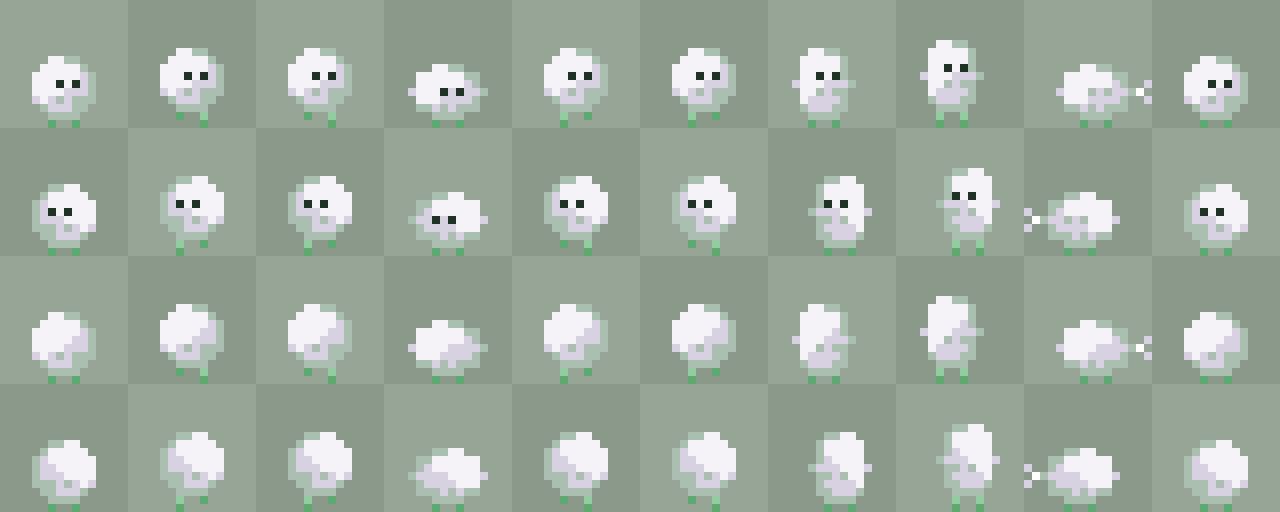
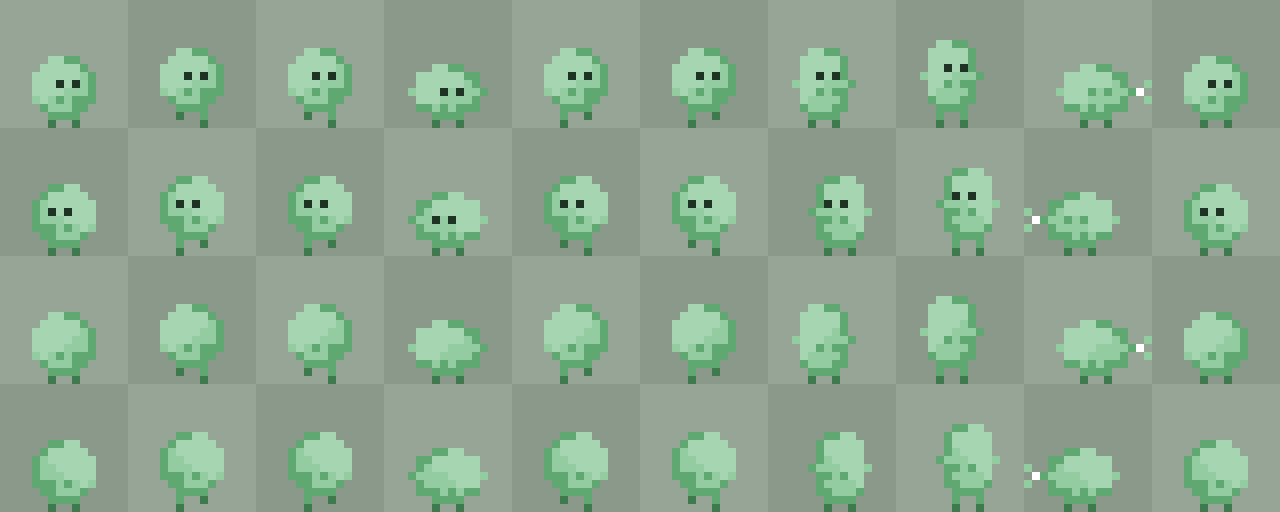
Morning suggestions: two log lines, Spool Seam/Mangled temp art in sage, PLAN Now tidied
Claude-Session: https://claude.ai/code/session_01RkaCMNmzr6NeLJeL4bMKyk

diff --git a/concept-tools/temp_art/spool_sage.py b/concept-tools/temp_art/spool_sage.py
@@ -14,6 +14,10 @@ colour, the icon palette); this script recolours the files: Spool's `Art/Tempora
 preview_8x PNGs and GIFs; the GIFs, opaque and under 20 colours, are re-quantised exactly). The version archives (`variants/`, `minions_2026-11-04/`) and the proposal folder keep their
 colours as a record.
 
+2026-11-06: the Seam's felt and the Mangled's cotton, drawn white with a lilac-grey mid and a grey-green shade, read as
+Pearl, which docs/STYLE.md keeps for Pure Aura (docs/reports/BATCH_CHECKS_2026-11-06c.md section 5), so `SHEET_MAP`
+moves those two bodies to the sage as well, per sheet, since the same whites are the other Crafted's gloves.
+
     python3 concept-tools/temp_art/spool_sage.py          -> recolours the files in place, prints what changed
     python3 concept-tools/temp_art/spool_sage.py --check  -> exits 1 if any old colour is left in those files
 
@@ -54,6 +58,19 @@ MAP = {
     'B5ABC6': 'ABBFB1',
 }
 
+# Per sheet, after MAP: the Seam (Button) and the Mangled (Burst) bodies, light / mid / shade (felt F6F3F8 / D8D1E2 /
+# ABBFB1). The Seam is the lighter of the two and its legs step down a tone to stay apart from its rim; the Mangled sits
+# a tone darker, which keeps it apart from the Seam and lifts its yellow eye. A sheet's table applies only while its
+# felt white (the first key) is in the file, because the Seam's legs would darken again on a second pass. In the
+# crafted GIFs the four sheets stand side by side (apply_picks.refresh: stitched, dart, seam, mangled), so a table
+# there covers its own strip.
+SHEET_MAP = {
+    'Spoolseam': {'F6F3F8': 'A6D6B1', 'D8D1E2': '93CCA1', 'ABBFB1': '60A871', '93CCA1': '60A871', '60A871': '3F7A4F'},
+    'Spoolmangled': {'F6F3F8': '93CCA1', 'D8D1E2': '6FAE7E', 'ABBFB1': '4F8C5E'},
+}
+GIF_STRIP = {'Spoolseam': 2, 'Spoolmangled': 3}
+CRAFTED_GIFS = ('Spool_crafted_move.gif', 'Spool_crafted_attack.gif')
+
 
 def hx(c):
     return '%02X%02X%02X' % tuple(c[:3])
@@ -71,8 +88,21 @@ def hsv(s):
 MAP_RGB = {rgb(k): rgb(v) for k, v in MAP.items()}
 
 
-def map_px(r, g, b):
-    return MAP_RGB.get((r, g, b), (r, g, b))
+def sheet_of(path):
+    return os.path.basename(path).split('-')[0]
+
+
+def table_for(name, present):
+    """The lookup for a file (or a GIF strip) of sheet `name`: MAP, then the sheet's own table while its marker colour
+    is `present`, composed into one pass."""
+    if name not in SHEET_MAP:
+        return MAP_RGB
+    own = {rgb(k): rgb(v) for k, v in SHEET_MAP[name].items()}
+    if not present(rgb(next(iter(SHEET_MAP[name])))):
+        return MAP_RGB
+    t = {k: own.get(v, v) for k, v in MAP_RGB.items()}
+    t.update(own)
+    return t
 
 
 # ------------------------------------------------------------------ PNG / GIF
@@ -82,15 +112,17 @@ def recolour_image(path, check):
     if getattr(im, 'is_animated', False) or im.format == 'GIF':
         return recolour_gif(path, check)
     rgba = im.convert('RGBA')
+    cols = {c[:3] for _, c in rgba.getcolors(rgba.width * rgba.height) if c[3]}
+    table = table_for(sheet_of(path), lambda c: c in cols)
     px = rgba.load()
     n = 0
     for y in range(rgba.height):
         for x in range(rgba.width):
             r, g, b, a = px[x, y]
-            if a and (r, g, b) in MAP_RGB:
+            if a and (r, g, b) in table:
                 n += 1
                 if not check:
-                    px[x, y] = map_px(r, g, b) + (a,)
+                    px[x, y] = table[(r, g, b)] + (a,)
     if n and not check:
         rgba.save(path)
     return n
@@ -102,15 +134,22 @@ def recolour_gif(path, check):
     for i in range(getattr(im, 'n_frames', 1)):
         im.seek(i)
         durations.append(im.info.get('duration', 100))
-        f = im.convert('RGBA')
+        frames.append(im.convert('RGBA'))
+    strip = {}
+    if os.path.basename(path) in CRAFTED_GIFS:
+        sw = im.width // 4
+        for name, k in GIF_STRIP.items():
+            strip[k] = table_for(name, lambda c: any(f.getpixel((x, y))[:3] == c for f in frames
+                                                     for y in range(f.height) for x in range(k * sw, (k + 1) * sw)))
+    for f in frames:
         px = f.load()
         for y in range(f.height):
             for x in range(f.width):
+                table = strip.get(x // sw, MAP_RGB) if strip else MAP_RGB
                 r, g, b, a = px[x, y]
-                if a and (r, g, b) in MAP_RGB:
+                if a and (r, g, b) in table:
                     n += 1
-                    px[x, y] = map_px(r, g, b) + (a,)
-        frames.append(f)
+                    px[x, y] = table[(r, g, b)] + (a,)
     if n and not check:
         loop = im.info.get('loop', 0)
         conv = [f.convert('RGB').convert('P', palette=Image.ADAPTIVE, colors=255) for f in frames]
@@ -120,7 +159,9 @@ def recolour_gif(path, check):
 
 # ------------------------------------------------------------------ .aseprite (RGBA), patched chunk by chunk
 
-def recolour_ase(path, check):
+def recolour_ase(path, check, table=None):
+    if table is None:
+        table = table_for(sheet_of(path), lambda c: recolour_ase(path, True, {c: c}) > 0)
     d = bytearray(open(path, 'rb').read())
     nframes, depth = struct.unpack('<H', d[6:8])[0], struct.unpack('<H', d[12:14])[0]
     assert depth == 32, path + ': not RGBA'
@@ -139,9 +180,9 @@ def recolour_ase(path, check):
                     raw = bytearray(c[20:] if typ == 0 else zlib.decompress(c[20:]))
                     for i in range(0, len(raw), 4):
                         key = (raw[i], raw[i + 1], raw[i + 2])
-                        if raw[i + 3] and key in MAP_RGB:
+                        if raw[i + 3] and key in table:
                             n += 1
-                            raw[i:i + 3] = bytes(MAP_RGB[key])
+                            raw[i:i + 3] = bytes(table[key])
                     c = c[:20] + (bytes(raw) if typ == 0 else zlib.compress(bytes(raw), 9))
             elif ct == 0x2019:
                 c = bytearray(c)
@@ -150,9 +191,9 @@ def recolour_ase(path, check):
                 for _k in range(a, b + 1):
                     fl = struct.unpack('<H', c[q:q + 2])[0]
                     key = tuple(c[q + 2:q + 5])
-                    if key in MAP_RGB:
+                    if key in table:
                         n += 1
-                        c[q + 2:q + 5] = bytes(MAP_RGB[key])
+                        c[q + 2:q + 5] = bytes(table[key])
                     q += 6
                     if fl & 1:
                         q += 2 + struct.unpack('<H', c[q:q + 2])[0]
@@ -189,6 +230,11 @@ def main():
     print('| Old | New | Old h s v | New h s v |')
     for k, v in MAP.items():
         print('| `%s` | `%s` | %d %d %d | %d %d %d |' % (k, v, *hsv(k), *hsv(v)))
+    for name, table in SHEET_MAP.items():
+        print()
+        print('%s (after MAP):' % name)
+        for k, v in table.items():
+            print('| `%s` | `%s` | %d %d %d | %d %d %d |' % (k, v, *hsv(k), *hsv(v)))
 
 
 if __name__ == '__main__':

diff --git a/TDS_Mod/ModSource/RogueWavesMode/Code/06_Campaign.cs b/TDS_Mod/ModSource/RogueWavesMode/Code/06_Campaign.cs
@@ -234,7 +234,7 @@ public static class RWCampaign
         Save();
         RWRun.Save();
         Rested = gift;
-        RWLog.Info("rested at " + cove.Name + " (row " + cove.Row + "): " + (gift == RetryBack ? "a retry back, " + Retries + " left" : "every player's lowest Direction up a rank") + (Choice >= 0 ? "; on to column " + Choice : "; the host picks the leg after it"));
+        RWLog.Info("rested at " + cove.Name + " (row " + cove.Row + "): " + (gift == RetryBack ? "a retry back, " + Retries + " left" : "every player's lowest Direction goes up a rank") + (Choice >= 0 ? "; on to column " + Choice : "; the host picks the leg after it"));
         RWRejoin.Say(gift == RetryBack ? "The Cove: the party rests and gets a retry back (" + Retries + " left)." : "The Cove: the party rests. With every retry in hand, each player's lowest Direction goes up a rank.");
         return true;
     }

diff --git a/TDS_Mod/ModSource/RogueWavesMode/Code/17_Cardinals.cs b/TDS_Mod/ModSource/RogueWavesMode/Code/17_Cardinals.cs
@@ -65,7 +65,8 @@ public static class RWCardinals
     public static readonly string[] NotSold =
     {
         "Artifact_Moon", "Artifact_Mooncore", "Artifact_Loop", "Artifact_Loopedmirror", "Artifact_Vintage", "Artifact_Samedayshipping", "Artifact_Pig", "Artifact_Moneybag",
-        "Artifact_Sandbox", "Artifact_Sand", "Artifact_Blurryphoto", "Artifact_Checklist", "Artifact_Computer", "Artifact_Bottomrock", "Artifact_Rock",
+        "Artifact_Sandbox", "Artifact_Sand", "Artifact_Blurryphoto", "Artifact_Checklist", "Artifact_Computer", "Artifact_Bottomrock",
+        "Artifact_Rock",   // Bottom Rock's real id (pitfall #132): scope 12:5's fourteen names, not a fifteenth
     };
 
     // The stock Cardinals that act on one player's things are Trinkets (docs/reports/STOCK_TRINKETS_2026-11-05.md, Dimitri:

diff --git a/TDS_Mod/ModSource/Spool/Code/07_Building.cs b/TDS_Mod/ModSource/Spool/Code/07_Building.cs
@@ -163,7 +163,7 @@ public class SpoolStashBrain : SpoolBuilding
         {
             Refused = true;
             SpoolServer.StashRefused++;
-            SpoolLog.Warn("player " + Owner + " placed a second Yarn Stash; taken back, one a player");
+            SpoolLog.Warn("player " + Owner + " placed a second Yarn Stash; taken back, one per player");
             Helper_Entitytools.Despawn(Master.Beingserver, false, "Limit");
             return;
         }

diff --git a/docs/PLAN.md b/docs/PLAN.md
@@ -227,21 +227,19 @@ README, versioned zips, and `docs/10` hand-off. Gate: release.
 
 ### Now
 
-- **State (2026-11-05, base `7de9305`):** Phases 1-3 done; Phase 4's foes and Phase 5's mode built and run in game.
+- **State (2026-11-06, base `7997a4d`):** Phases 1-3 done; Phase 4's foes and Phase 5's mode built and run in game.
   Parts: Argo 2.0.1, Yossele 0.2.0-dev, Spool 0.1.0-dev, Uloe 0.1.0-dev (temporary art, `docs/TEMP_ART.md`; Argo keeps his
-  shipped look), `RogueWavesMode` 0.1.0-dev (main-menu button to end screen), the foes part; kit 1.14. Last run on the PC:
-  testing round 3 (kit 1.9, `docs/reports/TESTING_ROUND_3_2026-11-05.md`) and `Light_round1` (`fb208b8`, kit 1.13,
-  `docs/reports/LIGHTING_2026-11-05.md` §6). Built since, compiled here, not run on the PC: the unbuilt candidates
-  (`BUILD_UNBUILT_2026-11-05.md`), the max review's fixes, the decided code fixes, the balance sweep, Spring Tide's test,
-  the meteor's crystal and Yossele's final sheets. Every scope default is his except the sweep's tuned numbers in `04`,
-  `08`, `10`, `12` (tildes until after PC round 4); his project-files scope copy and the Scope Editor equal `7de9305`.
-  Dated history: "Log" (newest last); reports: `docs/reports/README.md`.
-- **Next, in order:** PC round 4 (his OK 16:04Z; lists: `BUILD_UNBUILT_2026-11-05.md` §5, `CODE_REVIEW_MAX_2026-11-05.md`
-  §6, `BALANCE_SWEEP_2026-11-05.md` §8, `DECIDED_CODE_FIXES_2026-11-05.md` §4; Spring Tide's three lines pass and its two
-  `INFO` lines show a Multi near 0.01, `RogueWavesMode/IMPLEMENTATION_NOTES.md` first entry; the meteor on a map and
-  Yossele walking left; it also syncs the PC's scope copy), then scope `07`'s sprite NEEDS line cleared in a docs PR;
-  the per-weather lighting look's PC round with foes on screen (`WEATHER_LOOK_2026-11-05.md` §4; built, entry below);
-  then Spool's 22 upgrades and UNTHREAD (scope `08`, B19).
+  shipped look), `RogueWavesMode` 0.1.0-dev (main-menu button to end screen, sea chart, MVP board), the foes part; kit
+  1.14. Last runs on the PC: PC round 4 (`PC_ROUND4_2026-11-05.md`, weather looks included), the menu wobble round
+  (`BUTTON_WOBBLE_2026-11-06.md`) and chart round 1 (`CHART_ROUND1_2026-11-06.md`); a full test round on `6830ba2` is
+  running and reports in its own PR. Built since, compiled here, not run on the PC: the MVP board, the whole-pixel
+  follow-up and the entries below that say so. The sweep's tuned numbers in scope `04`, `08`, `10`, `12` keep their
+  tildes until he takes them; his project-files scope copy waits for his "sync". Dated history: "Log" (newest last);
+  reports: `docs/reports/README.md`.
+- **Next, in order:** the full test round's report and the PC checks it leaves (`BUG_FIXES_2026-11-06.md` §5,
+  `CHART_BUILD_2026-11-06.md` §4, `STOCK_TRINKETS_2026-11-05.md` §6 and §8, the MVP board's two-player checks); the
+  pitfall report's top four fixes (`PITFALL_FIXES_2026-11-06.md` §1, its own PR); then Spool's 22 upgrades and UNTHREAD
+  (scope `08`, B19), with Spool's brain guard.
 - **Still open for his eye or word:** the code review's bugs left for his word, a PC fact or a sighting
   (`CODE_REVIEW_RECHECK_2026-11-05.md`, `CODE_REVIEW_MAX_2026-11-05.md` §5.1); by hand: the F key on a real Boutman death
   (P1-1), the icons, Spool's sage green beside a Hardened foe and on grass, the picked temporary art and minions, the
@@ -271,9 +269,6 @@ README, versioned zips, and `docs/10` hand-off. Gate: release.
 - **2026-11-05: four project skills drafted** (Dimitri: "Draft the 4 skills"): `docs/skills/` holds ship-a-pr,
   pc-round, scope-audit and scope-sync, each a whole SKILL.md for his claude.ai settings, plus how to install them.
   Docs only, no compile; nothing ran on the PC. No kit change, no pitfall.
-- **2026-11-05: base game Cardinals split** (Dimitri: "separate them"): 13 of the 29 sold are Trinkets, held once per buyer
-  (`docs/reports/STOCK_TRINKETS_2026-11-05.md`; §5 three questions, §6 the PC list); scope `12` lists them as defaults.
-  Compiled here, not run on the PC. No kit change, no pitfall.
 - **2026-11-05: feature spotlight page** (Dimitri: "Design a spotlight of all of the new features"): `docs/spotlight/`
   (artifact https://claude.ai/artifact/MCPDgVngHmnZcVHeZwxNSr), every feature chipped played, built-not-run or not built,
   with the PR #130 Trinket split. Docs only, no compile; nothing ran on the PC. No kit change, no pitfall.
@@ -346,6 +341,9 @@ README, versioned zips, and `docs/10` hand-off. Gate: release.
 - **2026-11-06: morning run** (Dimitri's daily routine): batch checks on Haiku 5.5, $1.32 ($3.14 this month), 35 of 36
   answers whole (`docs/reports/BATCH_CHECKS_2026-11-06c.md`, leads only, none fixed); no PC round (it needs his reply in
   the thread to start). Docs only; nothing ran on the PC. No kit change, no pitfall.
+- **2026-11-06: the morning's suggestions** (Dimitri: "implement suggestions but skip the PC round"): two log lines,
+  Spool's Seam and Mangled temporary sheets in sage, "Now" tidied, the batch README; two batch leads were no bugs. Compiled
+  here, not run on the PC. No kit change, no pitfall.
 
 ### Log (newest last; was "Now" until 2026-10-11)
 
@@ -1440,6 +1438,18 @@ README, versioned zips, and `docs/10` hand-off. Gate: release.
   4 text, 51 scope rows DIFFERENT or MISSING, 9 design rows, 7 docs, 68 art; leads only, none fixed here. The PC was
   reachable, but a Remote Control session can only be started from a message Dimitri writes in the thread, so no PC
   round ran; suggestions instead. Docs only. No kit change, no pitfall. Next free: kit 1.15, pitfall #175.
+- **2026-11-06: the morning's suggestions** (Dimitri 13:00Z: "If not done already, implement suggestions but skip the PC
+  round as it is already being run"). The pitfall-fix thread holds the elite stand-in order, the Wreck's Pearl Oyster,
+  the brain guards, the first-frame effects and Supernova's fly-back, so they are left out here. Text: the Cove's log
+  line ("goes up a rank", `06_Campaign.cs`) and Spool's second-Stash warning ("one per player", `07_Building.cs`); the
+  two Direction lines the batch called awkward (`16_Directions.cs:32`, `:68`) are his scope `11` words, left. Art:
+  Spool's Seam and Mangled temporary sheets from white and lilac (read as Pearl) to sage, by a per-sheet table in
+  `concept-tools/temp_art/spool_sage.py`; PNG, `.aseprite` and previews, shapes unchanged (`docs/TEMP_ART.md`). Not
+  bugs: the shop's `Artifact_Rock` is Bottom Rock's id (pitfall #132, now commented in `NotSold`); Uloe's six Light is
+  `4 + 2 per upgrade`, any one upgrade. Docs: "Now"'s State and Next brought to 2026-11-06, the superseded 13-of-29
+  entry dropped (the Log keeps it), the batch README's "What ran where". CLAUDE.md is 80 lines against "under 80": left
+  for his word. Compiled here: RogueWavesMode (none, SELFTEST, SELFTEST+SHOTS+GAPS) and Spool (none, SELFTEST,
+  SELFTEST+SHOTS) 0 errors; the TWOPC build's `Unity.Netcode.Transports` error is the base's too. Not run on the PC.
 
 ### Decisions
 

diff --git a/docs/TEMP_ART.md b/docs/TEMP_ART.md
@@ -24,7 +24,7 @@ left, shade keeps the hue, no pure black, magenta only on foes.
 | Spool | the vessel's sheets, Crafted, Thread Head, towers, effects, sounds (drawn by code) | Spool's `Previews/0.1/ASSETS.md` | in game since Spool round 1 |
 | Spool | a 12 x 12 ground Thread tuft; a needle that reads in flight | `ModSource/Spool/Art/Temporary/` | wired (PR #42, merged); in the builds of 2026-11-03 and 2026-11-04 (121/0, 133/0); not yet looked at by eye |
 | Spool | the Thread Head and the four Crafted (Stitched, Dart, Seam, Mangled), redrawn from Dimitri's Spool sprite (2026-10-28) and animated | `ModSource/Spool/Art/Temporary/` | wired (PR #42, merged; a `FileArt` like Yossele's); in the builds of 2026-11-03 and 2026-11-04; not yet looked at by eye |
-| Spool | the main sprite in pastel green, a proposal (Dimitri 2026-11-05: Spool's purple reads too close to the foes; only the main sprite for now, as an example; yellow, then mint, then the sage he picked) | `ModSource/Spool/Art/Temporary/pastel_green_2026-11-05/` (its README: palette map, before and after, the follow-up list) | applied to all of Spool at his word (2026-11-05 03:19Z: own frames, UI colour, Thread Head, Crafted, thread, models' felt; `concept-tools/temp_art/spool_sage.py`); compiled, not seen in game |
+| Spool | the main sprite in pastel green, a proposal (Dimitri 2026-11-05: Spool's purple reads too close to the foes; only the main sprite for now, as an example; yellow, then mint, then the sage he picked) | `ModSource/Spool/Art/Temporary/pastel_green_2026-11-05/` (its README: palette map, before and after, the follow-up list) | applied to all of Spool at his word (2026-11-05 03:19Z: own frames, UI colour, Thread Head, Crafted, thread, models' felt; `concept-tools/temp_art/spool_sage.py`); the Seam's felt and the Mangled's cotton, white and read as Pearl, moved to sage on 2026-11-06 (its `SHEET_MAP`); compiled, not seen in game |
 | Mode UI | three weather icons, redrawn | `ModSource/RogueWavesMode/Art/Temporary/`, rows in `Code/08_Icons.cs` | wired, compiled |
 | Mode UI | the crest (12 and 32 px), Pure Aura, Depth, retry, vote icons | same folder | wired (2026-11-03), seen in game on the menu button and the dialogs; Depth waits for its feature |
 | Mode UI | icons of the Stay, Leave, Shop, Fund and Board buttons | same folder | wired, seen in game |

diff --git a/TDS_Mod/ModSource/Spool/Art/Temporary/README.md b/TDS_Mod/ModSource/Spool/Art/Temporary/README.md
@@ -73,4 +73,4 @@ temporary file. Generators: `concept-tools/temp_art/ui_icons.py` (the tuft rows 
 
 **Minion versions (2026-11-04):** ten Snoble-sized versions of the Thread Head and each of the four Crafted are in `minions_2026-11-04/` (its README); Dimitri's picks (2026-11-05) are copied into `game_size/` and `aseprite/` above, and the GIFs in `preview_8x/` were redrawn from them.
 
-**Sage green (2026-11-05):** Dimitri found Spool's purple too close to the foes and picked a soft sage (after a yellow and a mint, `pastel_green_2026-11-05/`), then had it applied to all of Spool. Every file in `game_size/`, `aseprite/` and `preview_8x/` is recoloured by `concept-tools/temp_art/spool_sage.py` (one old-to-new table; where a row above says purple or lilac, read the sage it maps to), and the code's colours follow (that folder's README lists them). Compiled, not yet seen in game.
+**Sage green (2026-11-05):** Dimitri found Spool's purple too close to the foes and picked a soft sage (after a yellow and a mint, `pastel_green_2026-11-05/`), then had it applied to all of Spool. Every file in `game_size/`, `aseprite/` and `preview_8x/` is recoloured by `concept-tools/temp_art/spool_sage.py` (one old-to-new table; where a row above says purple or lilac, read the sage it maps to; since 2026-11-06 its `SHEET_MAP` also turns the Seam's white felt and the Mangled's white cotton sage, as they read as Pearl), and the code's colours follow (that folder's README lists them). Compiled, not yet seen in game.

diff --git a/TDS_Mod/Tools/batch/README.md b/TDS_Mod/Tools/batch/README.md
@@ -144,5 +144,6 @@ PowerShell in the container; `design`, `docs`, `art`, `--since`, `--max-cost`,
 `--max-wait`, `spend`; review fixes: at most 2 cache marks a request, the API's limit being 4, which scope `11`'s five
 parts broke; per-check bases; a true cost ceiling; `--art` sends only files git tracks). Here (cloud): `plan` for every
 check on both models, the report writer on made-up results for every check, per-check bases through a failed, a
-narrowed and an explicit-`--since` run, the art pictures looked at, and the missing-key and over-cap exits. No real batch has run: no key was
-available in the container.
+narrowed and an explicit-`--since` run, the art pictures looked at, and the missing-key and over-cap exits. Real runs since: the first on
+2026-11-06 (Haiku, $1.82 with its rerun, `docs/reports/BATCH_CHECKS_2026-11-06.md` and `06b`) and the morning
+routine's (Haiku, $1.32, `BATCH_CHECKS_2026-11-06c.md`); `spend` lists every run.
